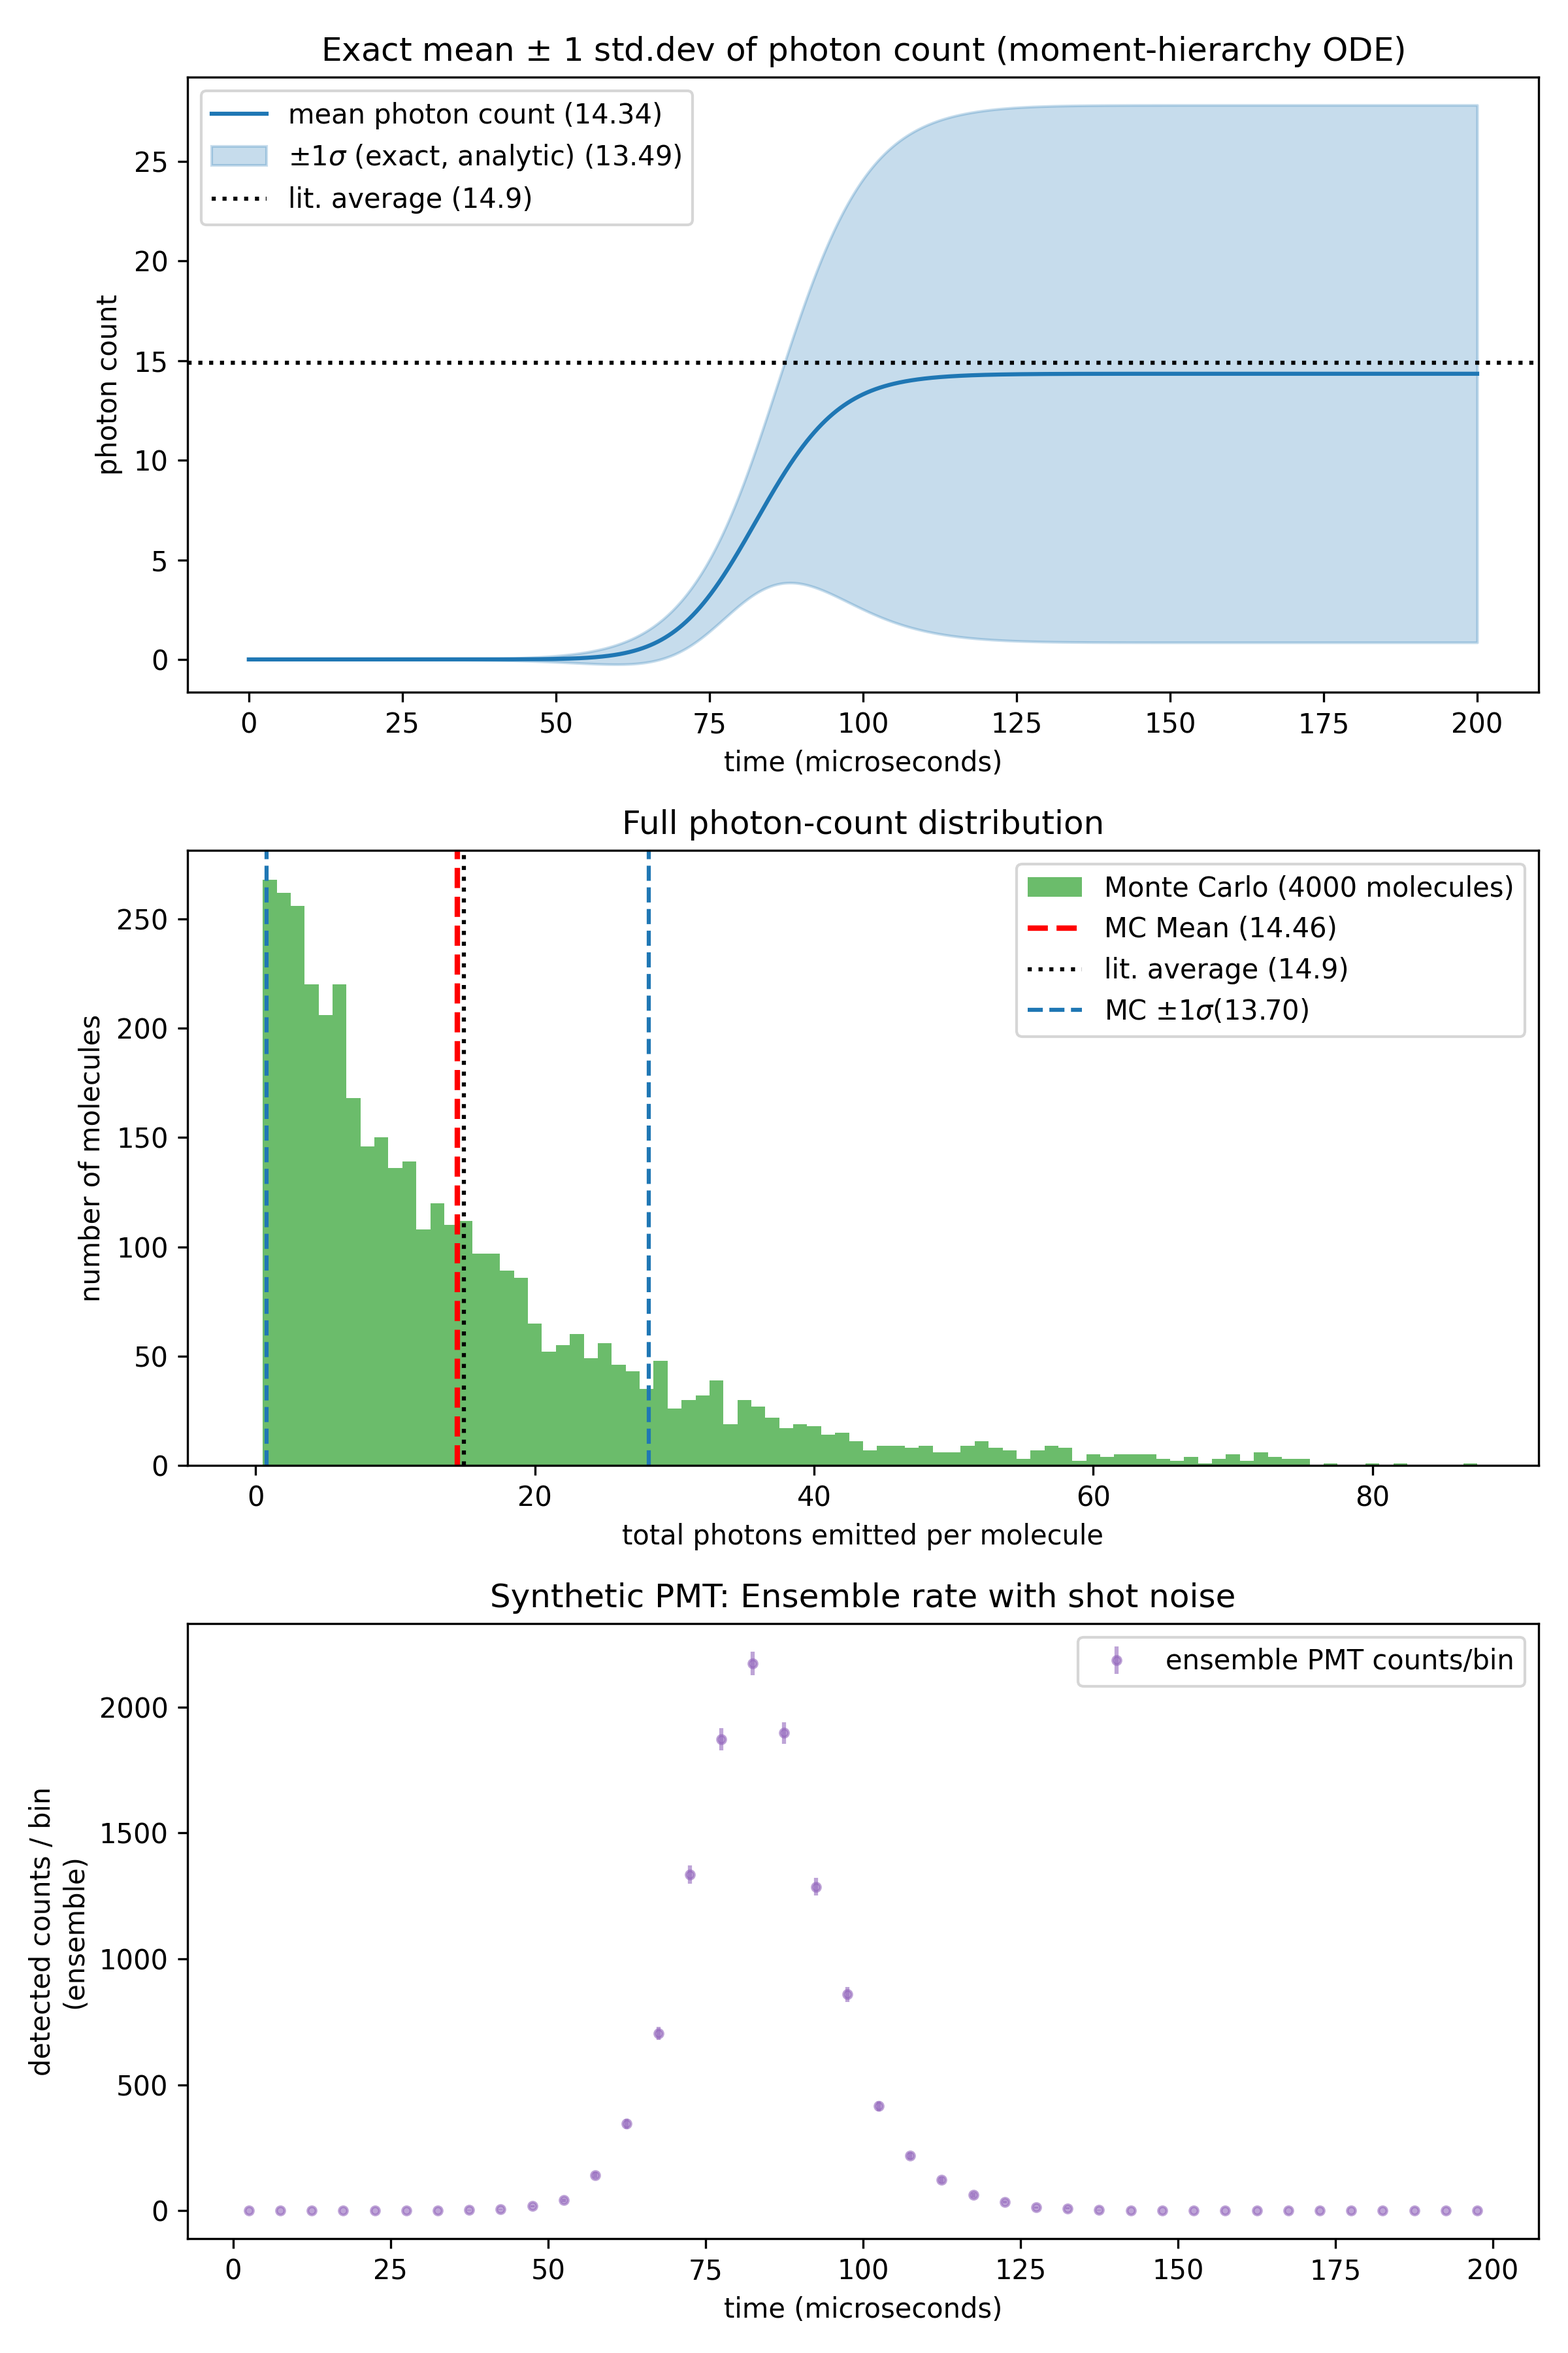
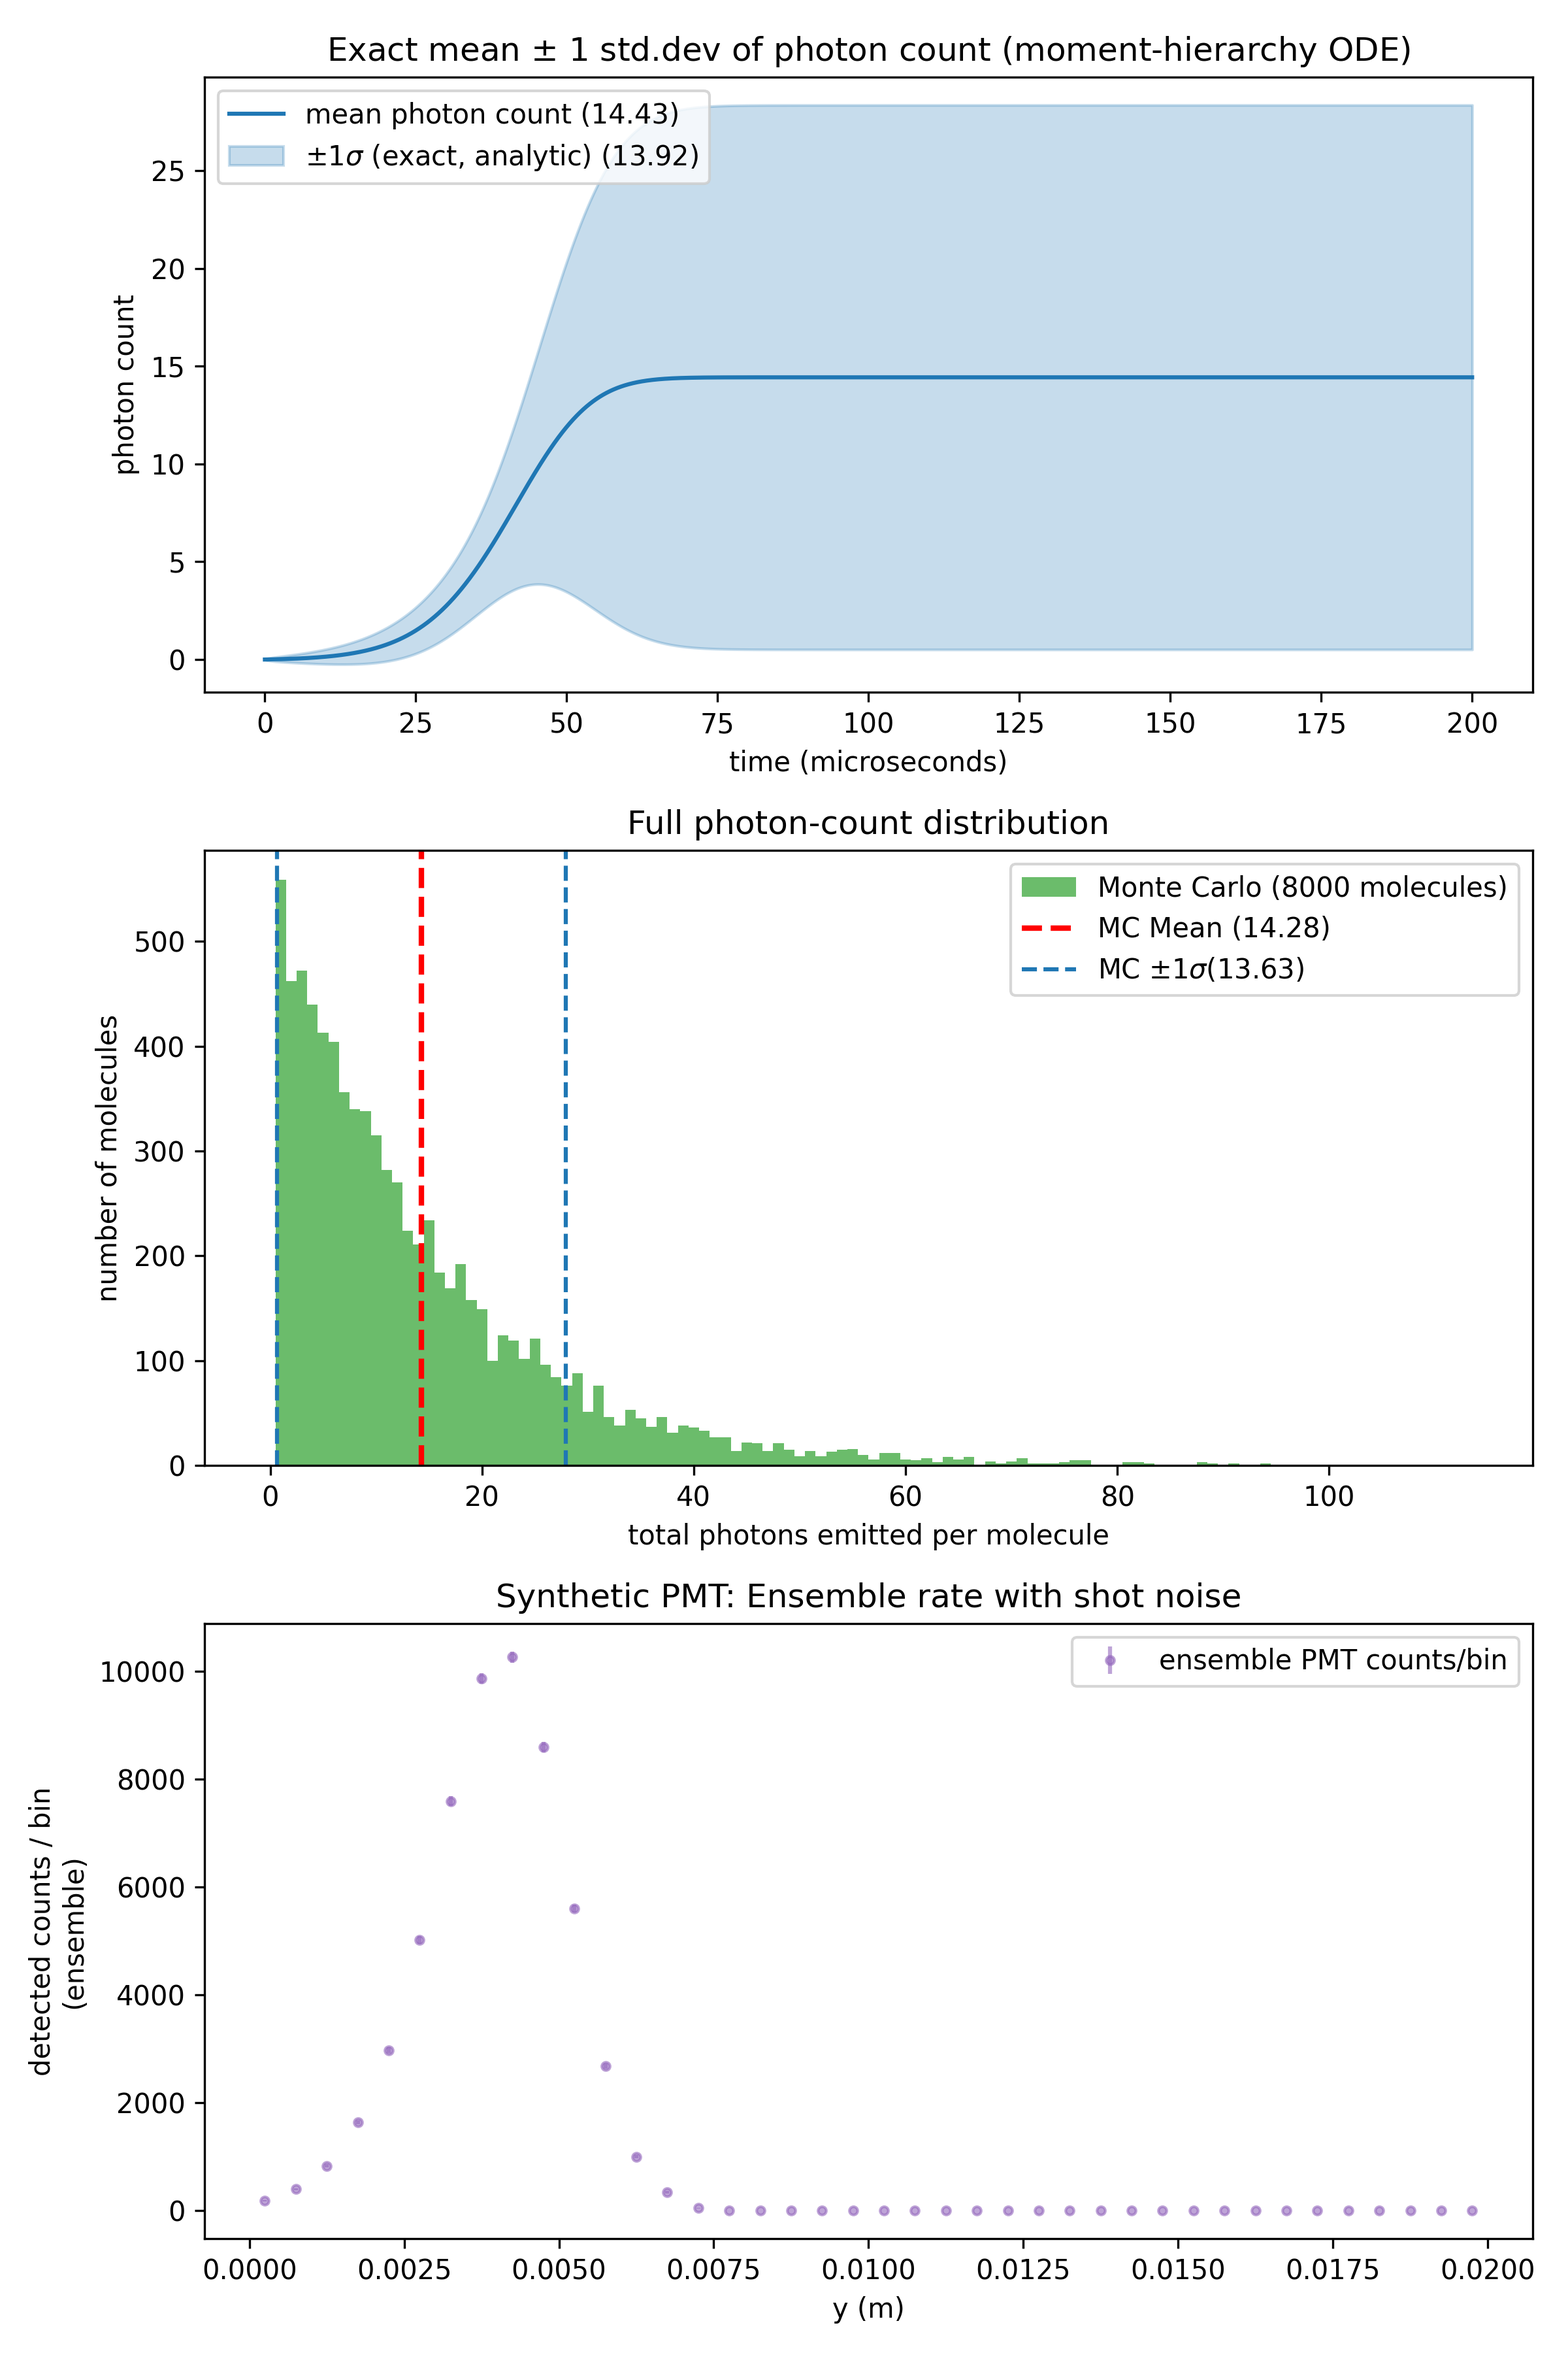
ccd camera

diff --git a/main.py b/main.py
@@ -4,7 +4,7 @@ import scipy as scp
 from level_scheme import Level, LevelScheme, Laser
 import level_scheme
 import matplotlib.pyplot as plt
-from photon_statistics import solve_moments, analytic_std, mc_ensemble, pmt, get_max_pump_rates
+from photon_statistics import *
 import time
 
 """
@@ -12,6 +12,8 @@ Simulation: YbF molecule going through one laser pumping X^2\Sigma(v=0) -> A^2\P
 
 To-Do
 Find PMT efficiency and solid angle
+
+GAmma = 1.5 GHz
 
 Simulation
 - Time resolution? 
@@ -48,7 +50,7 @@ def YbF_wavelength():
     return {Level.g: 552e-9, Level.v1: 568e-9, Level.v2: 585e-9, Level.v3: 602e-9}
 
 
-def plot_photon_statistics(t, mean_analytic, std_analytic, n_molecules, counts, mc_avg, mc_std, all_photon_times, pmt_bins, pmt_counts):
+def plot_photon_statistics(t, mean_analytic, std_analytic, n_molecules, counts, mc_avg, mc_std, all_photon_times, cam_y, cam_counts):
     fig, axes = plt.subplots(3, 1, figsize=(8, 12))
  
     ax = axes[0]
@@ -77,12 +79,11 @@ def plot_photon_statistics(t, mean_analytic, std_analytic, n_molecules, counts, 
     ax.legend()
 
     ax = axes[2]
-    pmt_t = 0.5 * (pmt_bins[:-1] + pmt_bins[1:])
-    ax.errorbar(pmt_t * 1e6, pmt_counts, yerr=np.sqrt(pmt_counts), fmt='.', color='tab:purple',
+    ax.errorbar(cam_y, cam_counts, yerr=np.sqrt(cam_counts), fmt='.', color='tab:purple',
                  alpha=0.6, label=f'ensemble PMT counts/bin')
     ax.set_ylabel("detected counts / bin\n(ensemble)")
-    ax.set_xlabel("time (microseconds)")
-    ax.set_title("Synthetic PMT: Ensemble rate with shot noise")
+    ax.set_xlabel("y (m)")
+    ax.set_title("Synthetic CCD: Ensemble rate with shot noise")
     ax.legend(loc='upper right')
 
     fig.tight_layout()
@@ -96,7 +97,6 @@ def plot_results(sol, level_scheme, lasers_list, trajectory, tau, dr, n_photons_
  
     labels = ["v=0", "v=1", "v=2", "v=3", "excited"]
 
- 
     fig, axes = plt.subplots(5, 1, figsize=(8, 12), sharex=True)
  
     ax = axes[0]
@@ -120,6 +120,12 @@ def plot_results(sol, level_scheme, lasers_list, trajectory, tau, dr, n_photons_
         ax2.plot(t_plot * 1e6, I_profile, color='gray', linestyle='--', alpha=0.6, label="laser intensity")
     ax2.set_ylabel(r"laser intensity (unnormalized) / $\text{Wm}^{-2}$", color='gray')
     ax.set_title("Excited-state population vs. laser intensity envelope")
+    if len(lasers_list) == 2:
+        ax.text(0.85, 0.85, f"P1 Power: {lasers_list[0].power:.4f} W \n V1 Power: {lasers_list[1].power:.4f} mW", horizontalalignment='center', verticalalignment='center', transform=ax.transAxes, bbox=dict(facecolor='gray', alpha=0.5))
+    elif len(lasers_list) == 1:
+        ax.text(0.85, 0.85, f"P1 Power: {lasers_list[0].power:.4f} W", horizontalalignment='center', verticalalignment='center', transform=ax.transAxes, bbox=dict(facecolor='gray', alpha=0.5))
+
+
 
     ax = axes[2]
     for i in range(5):
@@ -131,7 +137,7 @@ def plot_results(sol, level_scheme, lasers_list, trajectory, tau, dr, n_photons_
         I_profile = laser.profile(trajectory.x_0, y, trajectory.z_0)
         ax2.plot(t_plot * 1e6, I_profile, color='gray', linestyle='--', alpha=0.6, label="laser intensity")
     ax2.set_ylabel(r"laser intensity", color='gray')
-    ax.set_title("Radiation profile: Total photons emitted")
+    ax.set_title("Population vs laser intensity envelope")
  
     ax = axes[3]
     ax.plot(t_plot*1e6, dr*N[4]*1e-6, color='tab:pink', label="Photon emission")
@@ -141,8 +147,6 @@ def plot_results(sol, level_scheme, lasers_list, trajectory, tau, dr, n_photons_
     ax2.plot(t_plot * 1e6, N[5], color='tab:purple', label="photons radiated")
     ax2.set_ylabel("cumulative photon count", color = 'purple')
     ax.text(0.85, 0.15, f"Total photons: {n_photons_final:.2f}", horizontalalignment='center', verticalalignment='center', transform=ax.transAxes, bbox=dict(facecolor='tab:purple', alpha=0.5))
-
-
  
     ax = axes[4]
     total = N[:5].sum(axis=0)
@@ -156,15 +160,15 @@ def plot_results(sol, level_scheme, lasers_list, trajectory, tau, dr, n_photons_
     plt.show()
 
 
-def main():
+def run(power_p1, power_v1):
     t1 = time.time()
 
     tau = 20e-5
-    vy = 170 # ms^-1
+    vy = 100 # ms^-1
 
     mu = 0.5 * vy * tau # centre
     sigma = 0.00245 # m
-    I0 = 210 # Wm^-2
+    #I0 = 210 # Wm^-2
 
     dr = 1/(28e-9)  # https://doi.org/10.1039/c1cp21585j # decay rate for e state
     YbF = LevelScheme(decay_rate = dr, 
@@ -172,14 +176,14 @@ def main():
                         wavelength=YbF_wavelength(), 
                         degeneracy_factor = {Level.g: 12, Level.v1: 12, Level.v2: 12, Level.v3: 12, Level.e: 4})
 
-    P1 = Laser(target_v = Level.g, detuning = 0, wavelength=552e-9, mu =mu, sigma=sigma, I0 = I0) # P(1), I0 in Wm^-2
-    V1 = Laser(target_v= Level.v1, detuning=0, wavelength=568e-9, mu=mu, sigma=sigma, I0=I0 )
+    P1 = Laser(target_v = Level.g, detuning = 0, wavelength=552e-9, mu =mu, sigma=sigma, power=power_p1) # P(1), I0 in Wm^-2
+    V1 = Laser(target_v= Level.v1, detuning=0, wavelength=568e-9, mu=mu, sigma=sigma, power=power_v1)
     lasers_list = [P1, V1]
 
     global n_lasers
     n_lasers = len(lasers_list)
 
-    particle_1 = Trajectory(v_y = vy, x_0 = 0, z_0 = 0, N0 = [1.0,0.0,0.0,0.0,0.0,0.0])
+    particle_1 = Trajectory(v_y = vy, x_0 = 0, z_0 = 0.002, N0 = [1.0,0.0,0.0,0.0,0.0,0.0])
     sol = solve_transit(YbF, lasers_list, particle_1, tau)
     print(sol.message, " n_eval:", sol.t.size)
     
@@ -203,19 +207,40 @@ def main():
     mean_analytic, std_analytic = analytic_std(sol_moments, t)
 
     # MC
-    particle_2 = Trajectory(v_y = vy, x_0=0, z_0=0, N0=None)
     
-    n_molecules = 4000
-    all_photon_times, counts = mc_ensemble(YbF, lasers_list, particle_2, tau, n_molecules)
+    n_molecules = 8000
+    all_photon_times, counts = mc_ensemble(YbF, lasers_list, particle_1, tau, n_molecules)
     print(f"MC ({n_molecules} molecules): mean={counts.mean():.3f}, std={counts.std():.3f}")
 
     epsilon = 0.2 # Efficiency * solid_angle / 2\pi # FIND ACTUAL VALUE
-    bins, pmt_counts = pmt(all_photon_times, tau, epsilon)
+    pmt_bins, pmt_counts = pmt(all_photon_times, tau, epsilon)
 
-    plot_photon_statistics(t, mean_analytic, std_analytic, n_molecules, counts, counts.mean(), counts.std(), all_photon_times, bins, pmt_counts)
 
     print("--- seconds ---", time.time() - t1)
 
+    bin_width = 5e-6
+    pixel_size = vy * bin_width  # match same effective time resolution
+    cam_bins, cam_counts = ccd(all_photon_times, tau, vy, pixel_size, epsilon=0.5)
+    cam_y = 0.5 * (cam_bins[:-1] + cam_bins[1:])
+
+    plot_photon_statistics(t, mean_analytic, std_analytic, n_molecules, counts, counts.mean(), counts.std(), all_photon_times, cam_y, cam_counts)
+
+    #pmt_t = 0.5 * (pmt_bins[:-1] + pmt_bins[1:])
+    return cam_y, cam_counts
+
+
+def main():
+    power_p1 = 105e-3 # 18e-3 # W
+    power_v1 = 38e-3#32.3e-3
+    pmt_t_1, pmt_counts_1 = run(power_p1, power_v1)
+    pmt_t_2, pmt_counts_2 = run(power_p1, 0)
+
+    fig, ax = plt.subplots(1, 1, figsize=(8, 4))
+ 
+    ax.errorbar(pmt_t_1 * 1e6, pmt_counts_1, yerr=np.sqrt(pmt_counts_1), fmt='.', color='tab:purple')
+    ax.errorbar(pmt_t_2 * 1e6, pmt_counts_2, yerr=np.sqrt(pmt_counts_2), fmt='.', color='tab:red')
+    ax.set_ylabel("photon count")
+    ax.set_xlabel("time (ms)")
 
 
 

diff --git a/photon_statistics.py b/photon_statistics.py
@@ -2,6 +2,7 @@ import numpy as np
 import scipy as scp
 from level_scheme import Level
 import time
+from trajectory import Trajectory
 
 def rhs_moments(t, psi, particle, level_scheme, lasers_list):
     V = particle.build_moment_matrix(t, level_scheme, lasers_list)
@@ -94,6 +95,7 @@ def mc_ensemble(level_scheme, lasers_list, trajectory, tau, n_molecules):
     all_photon_times = []
     counts = np.zeros(n_molecules)
     max_rate = get_max_pump_rates(level_scheme, lasers_list, trajectory, tau)
+    print(max_rate)
     for i in range(n_molecules):
         pts = simulate_mc(level_scheme, lasers_list, trajectory, tau, rng, max_rate)
         all_photon_times.append(pts)
@@ -113,7 +115,25 @@ def pmt(all_photon_times, tau, epsilon=1.0):
             pts = pts[np.random.uniform(size=len(pts)) < epsilon]
         counts += np.histogram(pts, bins=bins)[0]
     return bins, counts
+s
+
+def ccd(all_photon_times, tau, v_y, pixel_size, epsilon=1.0):
+    rng = np.random.default_rng()
+    y_max = v_y * tau
+    bins = np.arange(0, y_max + pixel_size, pixel_size)
+    counts = np.zeros(len(bins) - 1)
+    for pts in all_photon_times:
+        y = v_y * np.array(pts)
+        if epsilon < 1.0:
+            y = np.array(y)
+            y = y[rng.uniform(size=len(y)) < epsilon]
+        counts += np.histogram(y, bins=bins)[0]
+    return bins, counts
 
 
+def mc_ensemble_2d(level_scheme, lasers_list, trajectory, tau, n_molecules):
+    rng = np.random.default_rnd()
 
+    all_photon_times = []
+    counts = np.zeros(n_molecules)
 

diff --git a/trajectory.py b/trajectory.py
@@ -28,6 +28,7 @@ class Trajectory:
             # https://doi.org/10.48550/arXiv.2510.16203
             pre_fac = level_scheme.degeneracy_factor[Level.e] / (level_scheme.degeneracy_factor[laser.target_v] + level_scheme.degeneracy_factor[Level.e] )
             Lambda[laser.target_v.value] = Gamma * pre_fac * s / (1 + s + (2*delta/Gamma)**2)
+    
         
         M = np.zeros((6,6)) # order: v0,v1,v2,v3,excited, photon_counter
         for i, (level, vb) in enumerate(q.items()):

diff --git a/level_scheme.py b/level_scheme.py
@@ -62,10 +62,13 @@ class Laser:
 
     mu: float
     sigma: float
-    I0: float
+    power: float
+    I0: float = field(init=False, repr=False)
     profile: callable = field(init=False, repr=False)
 
     def __post_init__(self):
+        self.I0 = self.power / (2 * np.pi * self.sigma**2)
+
         def tophat(x, y, z):
             # propagating along x
             y = np.asarray(y)
